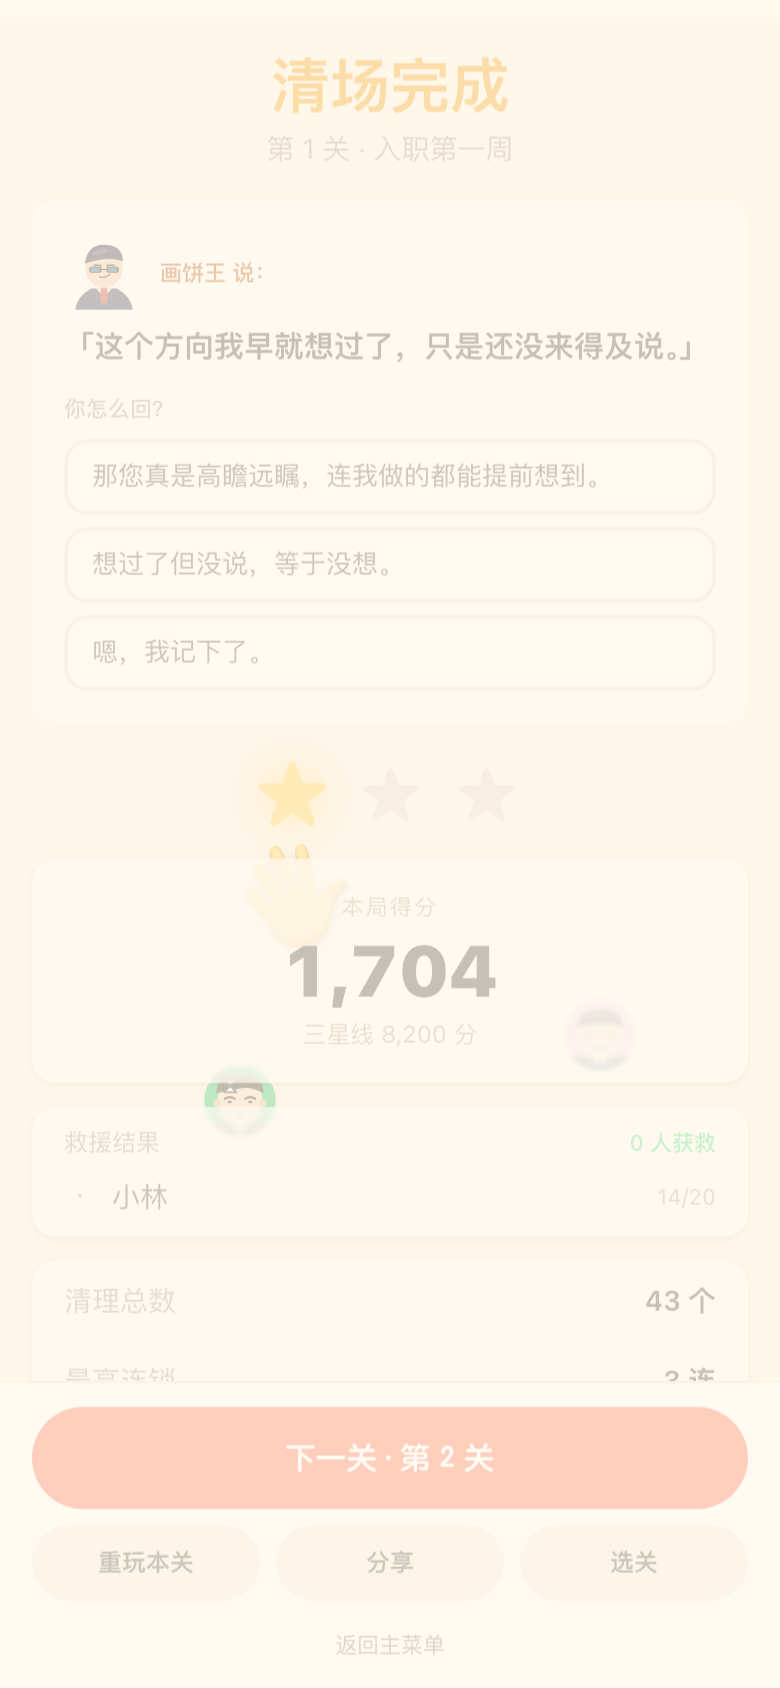
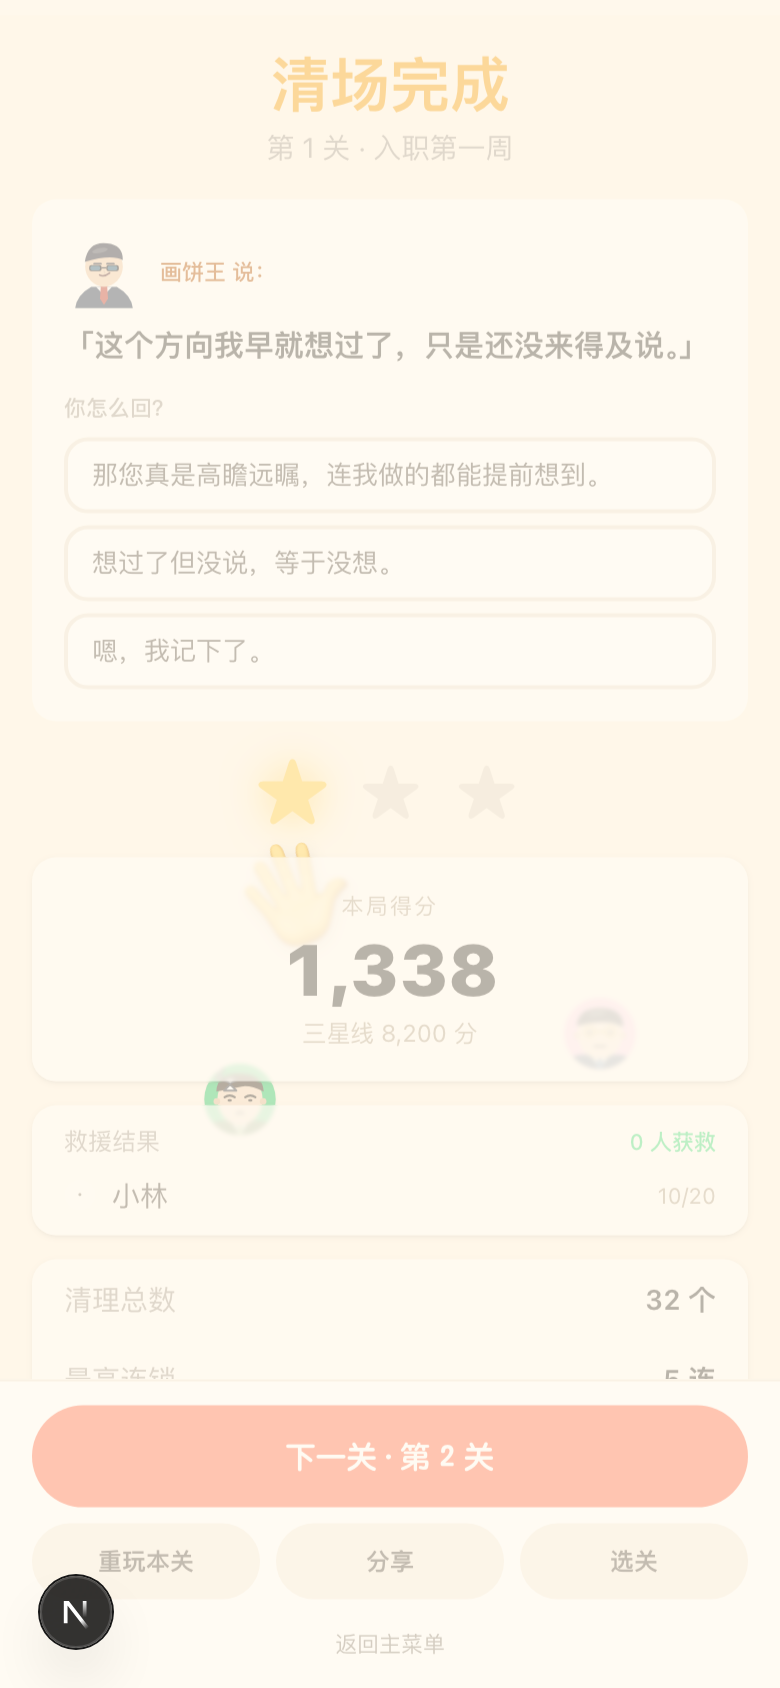
v1.6: 普通模式恢复纯净（撤掉文件堆）
普通模式不再撒文件堆。covers 机制留在引擎里但恒为 false，
重力/匹配在有 covers 时行为已验证不变，所以不影响现有玩法。

文件堆改到独立项目（单人单文件的版本）里做。

diff --git a/packages/game-core/test/core.test.ts b/packages/game-core/test/core.test.ts
@@ -650,42 +650,6 @@ test('锅块不能交换', () => {
 
 
 // ---------------------------------------------------------------- 文件堆
-test('开局撒 6~10 个文件堆，且不盖在空格上', () => {
-  for (let seed = 1; seed <= 5; seed += 1) {
-    const game = createGame(1, seed);
-    let covered = 0;
-    for (let r = 0; r < game.board.length; r += 1) {
-      for (let c = 0; c < (game.board[r]?.length ?? 0); c += 1) {
-        if (game.covers[r]?.[c]) {
-          covered += 1;
-          // 文件堆下面必须有领导
-          assert.ok(game.board[r]?.[c], `(${r},${c}) 文件堆盖在空格上了`);
-          assert.equal(game.board[r]?.[c]?.covered, true);
-        }
-      }
-    }
-    assert.ok(covered >= 6 && covered <= 10, `种子 ${seed} 盖了 ${covered} 个，应在 6~10`);
-  }
-});
-
-test('被文件堆盖住的格子不能交换', () => {
-  const base = createGame(1, 42);
-  // 找一个被盖住的格子
-  let spot: { row: number; col: number } | null = null;
-  for (let r = 0; r < base.board.length && !spot; r += 1) {
-    for (let c = 0; c < (base.board[r]?.length ?? 0); c += 1) {
-      if (base.covers[r]?.[c]) {
-        spot = { row: r, col: c };
-        break;
-      }
-    }
-  }
-  assert.ok(spot, '应该至少有一个文件堆');
-  const neighbor = { row: spot!.row, col: spot!.col === 0 ? 1 : spot!.col - 1 };
-  const { result } = trySwap(base, spot!, neighbor);
-  assert.equal(result.ok, false);
-});
-
 test('被盖住的领导不参与匹配', () => {
   const base = createGame(1, 42);
   const board = base.board.map((row) => [...row]);

diff --git a/packages/game-core/src/game.ts b/packages/game-core/src/game.ts
@@ -165,20 +165,8 @@ export function createGame(levelId: number, seed?: number, mode: GameMode = 'nor
     avatar: makeRescueAvatar(levelId * 10 + idx),
   }));
 
-  /**
-   * 开局撒 6~10 个「文件堆」。
-   *
-   * 规则（用户定的）：
-   *   · 被盖住的领导不能交换、不能被消除、不计入囚车
-   *   · 文件堆不下落，是固定障碍；上方块落到它上方就停
-   *   · 只能靠「相邻消除」或道具清掉
-   *   · 绝不盖在空格上（下面必须有领导）
-   */
-  const coverSpots = pickCoverSpots(board, rng);
-  for (const { row, col } of coverSpots) {
-    const t = board[row]?.[col];
-    if (t) board[row]![col] = { ...t, covered: true };
-  }
+  // 普通模式不撒文件堆（文件堆是独立项目里的机制，这里保持纯净）
+  const coverSpots: Array<{ row: number; col: number }> = [];
 
   const state: GameState = {
     level,
